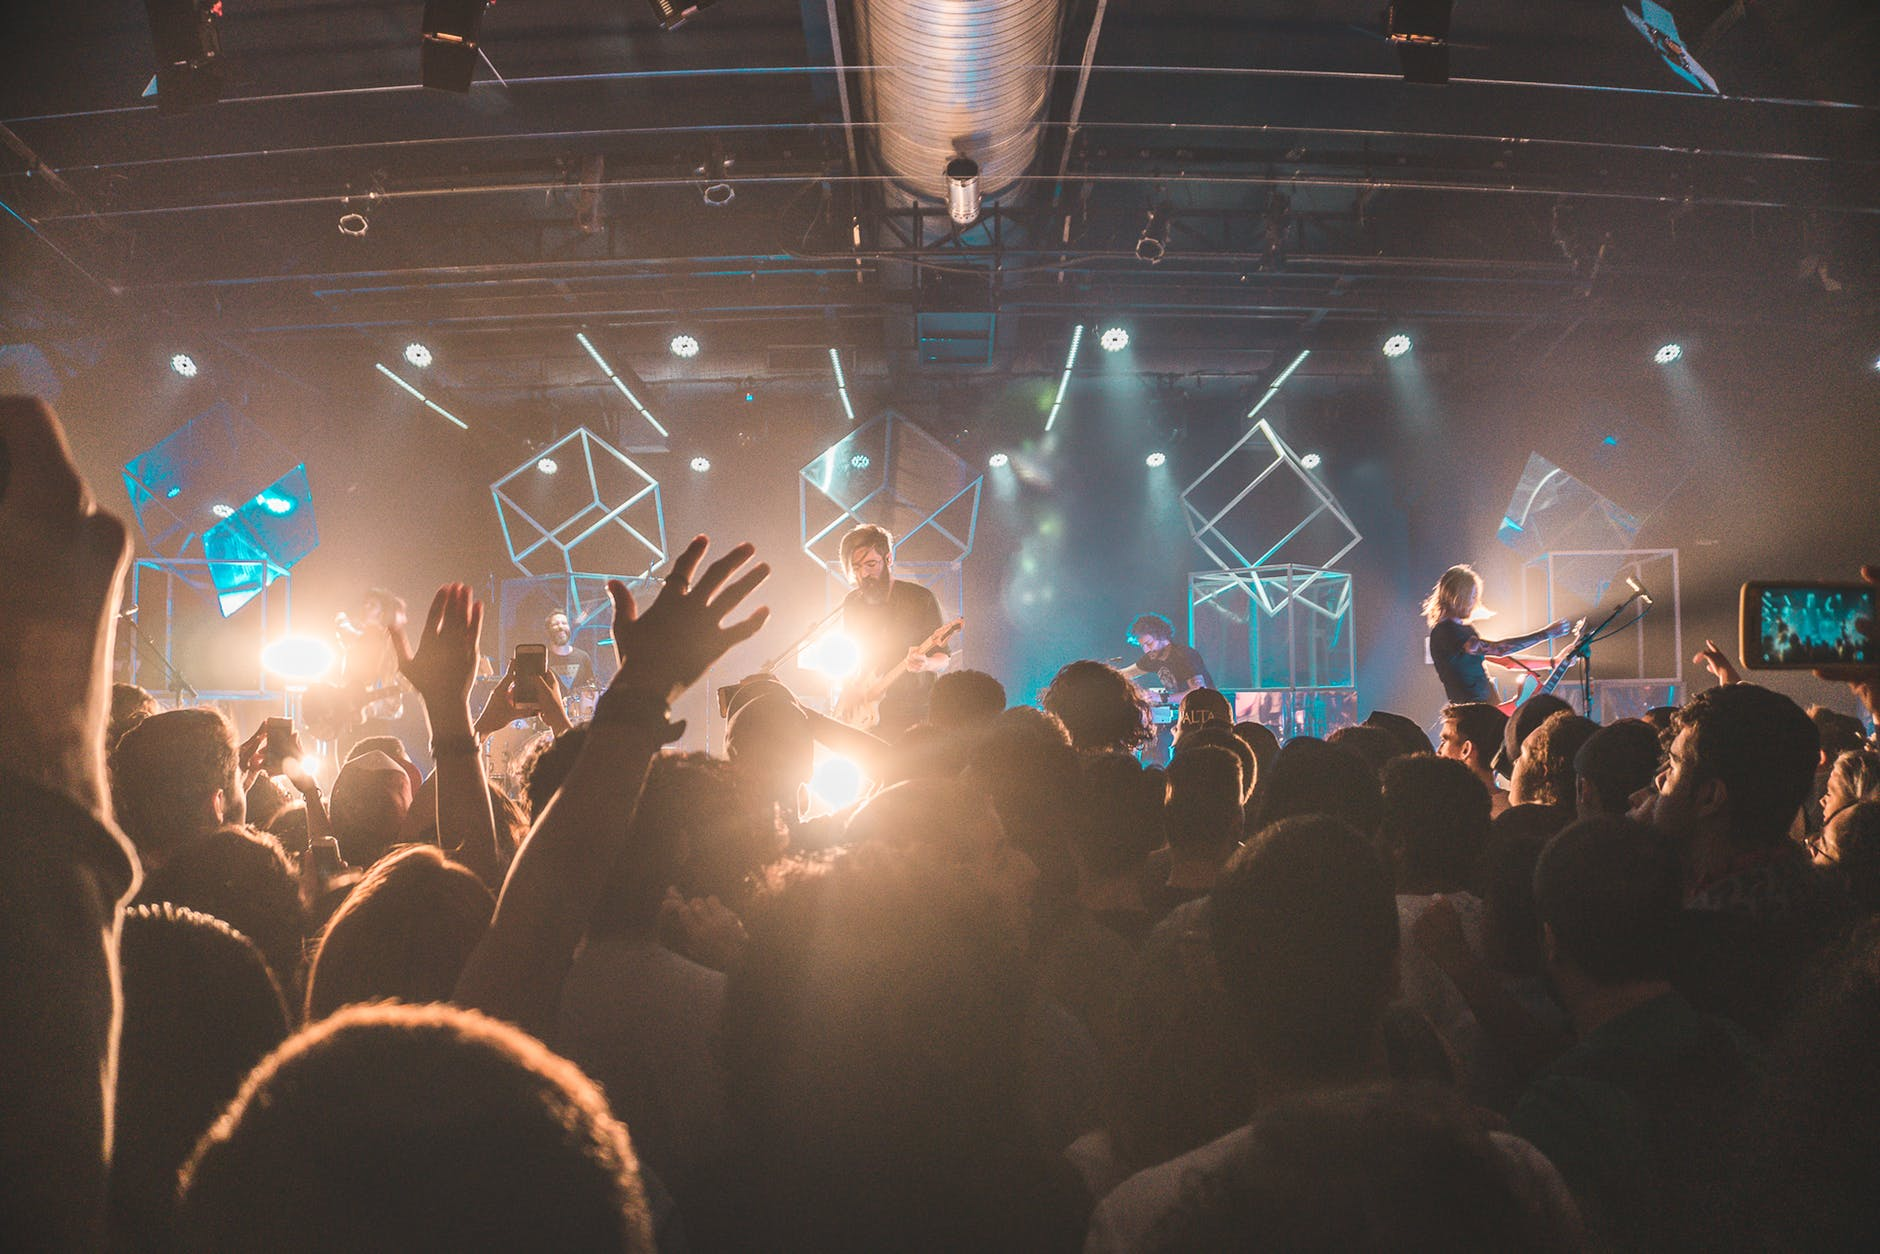
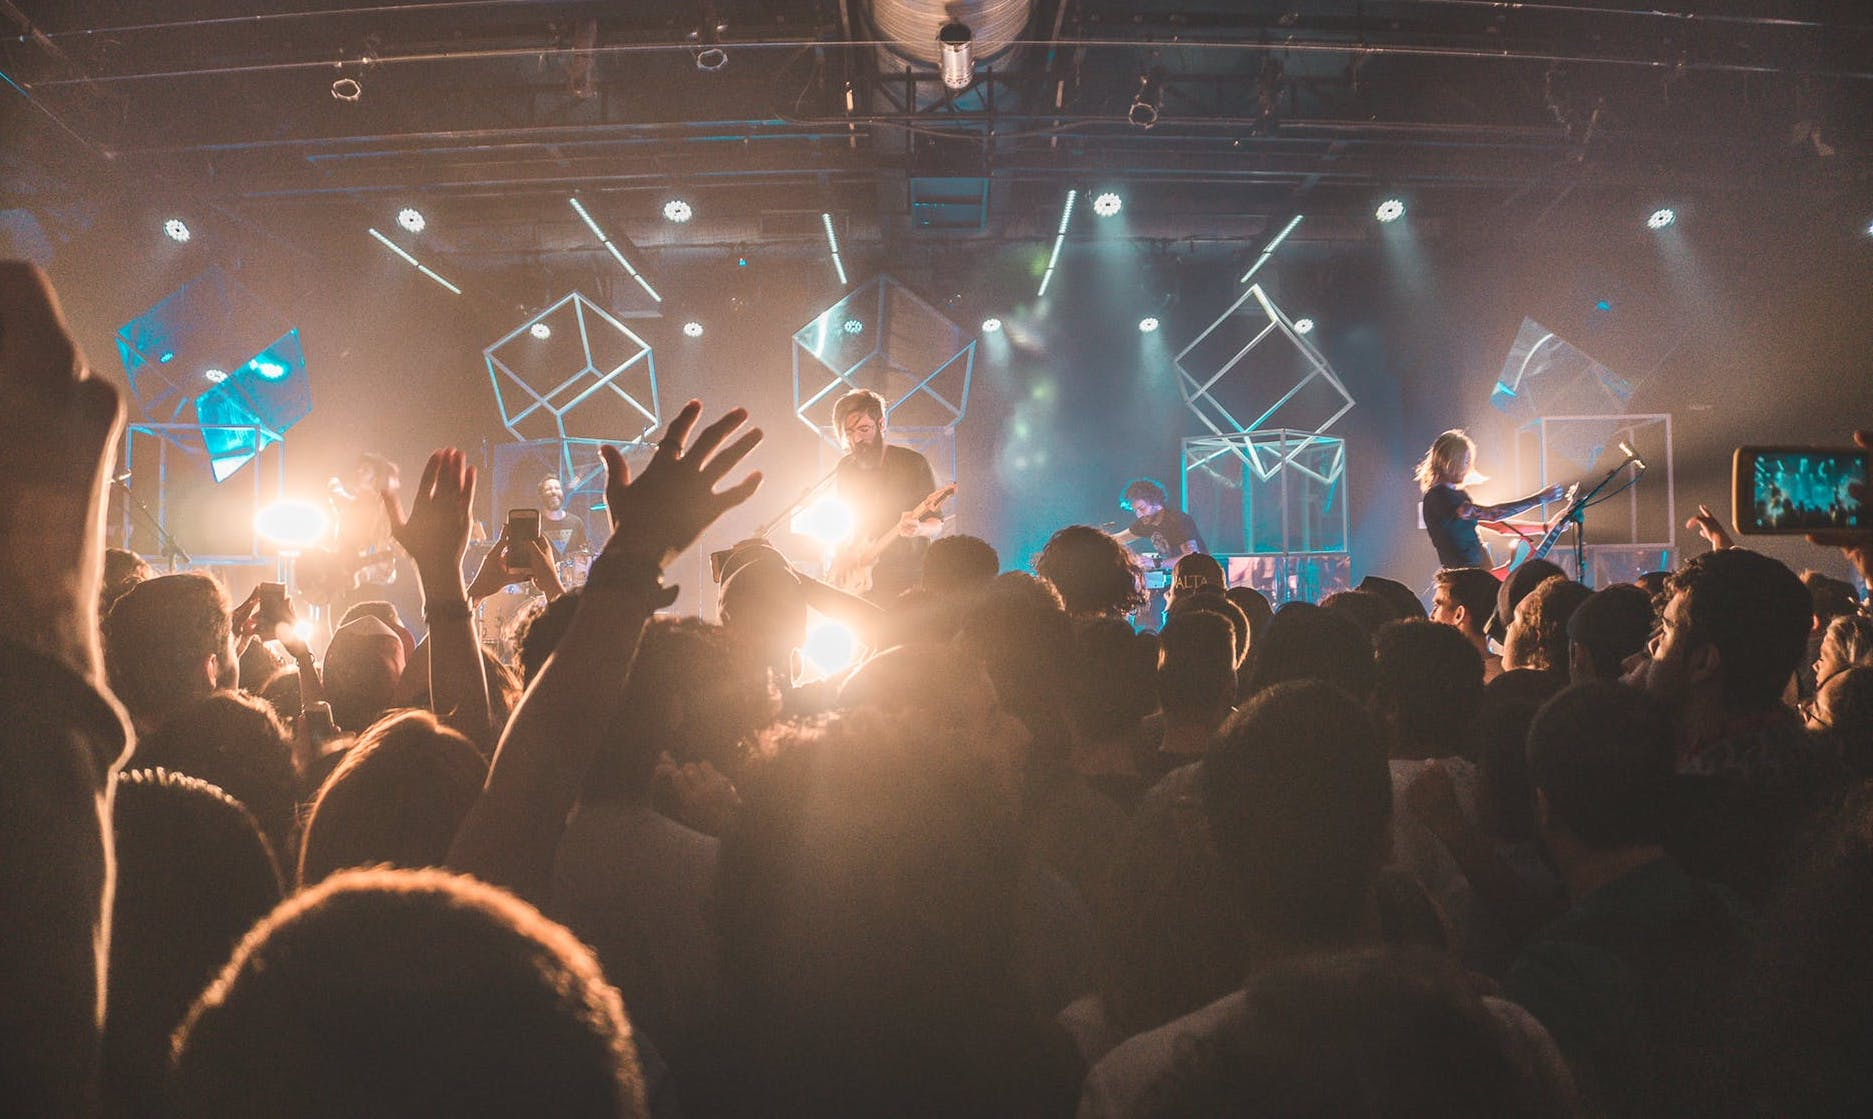
Landing page cambio de imagen

diff --git a/css/index.css b/css/index.css
@@ -61,13 +61,15 @@ main{
     background: #000000;
 }
 .portada{
-    background: url(../imagenes/index/portada.jpg);
+    background: url('../imagenes/landing-page/pexels-photo-518389.jpeg');
     background-size: cover;
     background-repeat: no-repeat;
     background-position-y: top;
     color: #FFFFFF;
-    height: 500px;
+    height: 600px;
     margin-bottom: 30px;
+    background-attachment: fixed;
+
 }
 h1{
     padding-top: 40px;
@@ -136,4 +138,10 @@ h1{
     border: none;
     color: #FFFFFF;
     margin: 0 0 2% 38%;
+}
+
+h1{
+    padding-top: 120px;
+    font-size: 60px;
+    text-shadow: 0px 6px rgba(0, 0, 0, 0.5);
 }

diff --git a/css/landing-page.css b/css/landing-page.css
@@ -1,10 +1,10 @@
 .main-section {
-    background-image: url('../imagenes/landing-page/pexels-photo-518389.jpeg');
-    width: 100%;
-    background-size: 100% 100%;
-    background-repeat: no-repeat;
-    height: 1000px;
+    background-image: url('../imagenes/landing-page/pexels-photo-1105666.jpeg');
+    height: 900px;
+    background-size: cover;
+    background-attachment: center;
  }
+ 
  
  
  .main-section .text-container {
@@ -61,6 +61,11 @@
     width: 250px;
     font-size: 20px;
     border: 1px solid white;
+}
+
+h1, h2{
+    padding-left: 90px;
+    padding-right: 90px;
 }
 
 
